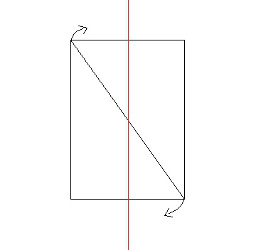
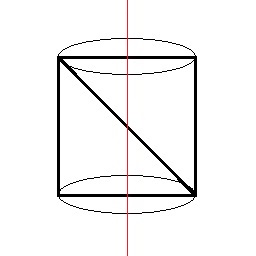
improved a pic

Changed region(s): [[0.2188, 0.0, 0.7812, 1.0]]

diff --git a/graduationThesis/TeX_files/particle_systems.tex b/graduationThesis/TeX_files/particle_systems.tex
@@ -147,7 +147,7 @@ The two basic billboard rotation mechanisms (the cylindrical and spherical rotat
 
 \newpage
 \subsection{The Cylindrical Rotation Mechanism}
-When using this mechanism the rotation of the billboard is restricted by one axis. Figure 2.1 shows a billboard composed from two triangles. The red vertical line which intersects it represents its rotation axis and the two small arrows show the rotation direction.
+When using this mechanism the rotation of the billboard is restricted by one axis. Figure 2.1 shows a billboard composed from two triangles. The red vertical line which intersects it represents its rotation axis and the two small arrows show one of the two possible rotation directions. This is its clockwise rotation and the other one is its counterclockwise rotation.
 
 \begin{figure}[h]
 	\caption{Rotation axis of a billboard}
@@ -158,8 +158,6 @@ When using this mechanism the rotation of the billboard is restricted by one axi
 Notice that the billboard is a vertical slice of a cylinder. The slice goes exactly through the central axis of the cylinder. Actually the rotation axis of the billboard from Figure 2.1 and the axis of our hypothetical cylinder are one and the same.\\
 
 If we would rotate the billboard from Figure 2.1 fast enough it would appear to look exactly like a cylinder. This is why the billboards which are implemented with this techniques are sometimes referred to as cylindric billboards.\\
-
-
 
 \newpage
 \subsection{How To Implement Particles as Quads}
@@ -174,10 +172,10 @@ Although billboards are useful for implementing textured particle systems they c
 
 Let us take as an example a tree. If a programmer were to render a tree using triangles he would have to face a trade-off between detail and rendering speed. In other words if he would use a small number of triangles the rendering speed will be high but the detail level of the tree will be fairly low thus making the tree look unrealistic.\\
 
-On the other hand if our programmer were to use a very high triangle count the detail level of the tree will be high but the rendering speed would be lower. Actually the difference will not be that noticeable when rendering a single tree but when one renders a whole forest the difference will be far greater.\\
+On the other hand if our programmer were to use a very high triangle count the detail level of the tree will be high but the rendering speed would be lower. Actually the difference will not be that noticeable when rendering a single tree but when one renders a whole forest the difference will be greater.\\
 
 Fortunately we have modern hardware which can handle rendering scenes with a high polygon count very well. But for the times when we do not have modern hardware or we simply want to optimize the rendering speed of a graphic application for no reason we have \textbf{billboards}.\\
 
-Billboards can easily be used to render a forest. In the rendering process of the forest we can use a billboard (one made out of two triangles not a few thousands) for each tree in the forest. This will increase the rendering speed of the graphic application without loosing that much on the detail side of the application.\\
+Billboards can be easily used to render a forest. In the rendering process of the forest we can use a billboard (one made out of two triangles not a few thousands) for each tree in the forest. This will increase the rendering speed of the graphic application without loosing that much on the detail side of the application.\\
 
 Billboards are perfect for the task of reducing the polygon count of graphic applications because a tree can be represented with only two triangles and they do not break the tree illusion because they always rotate their face towards the camera.\\
